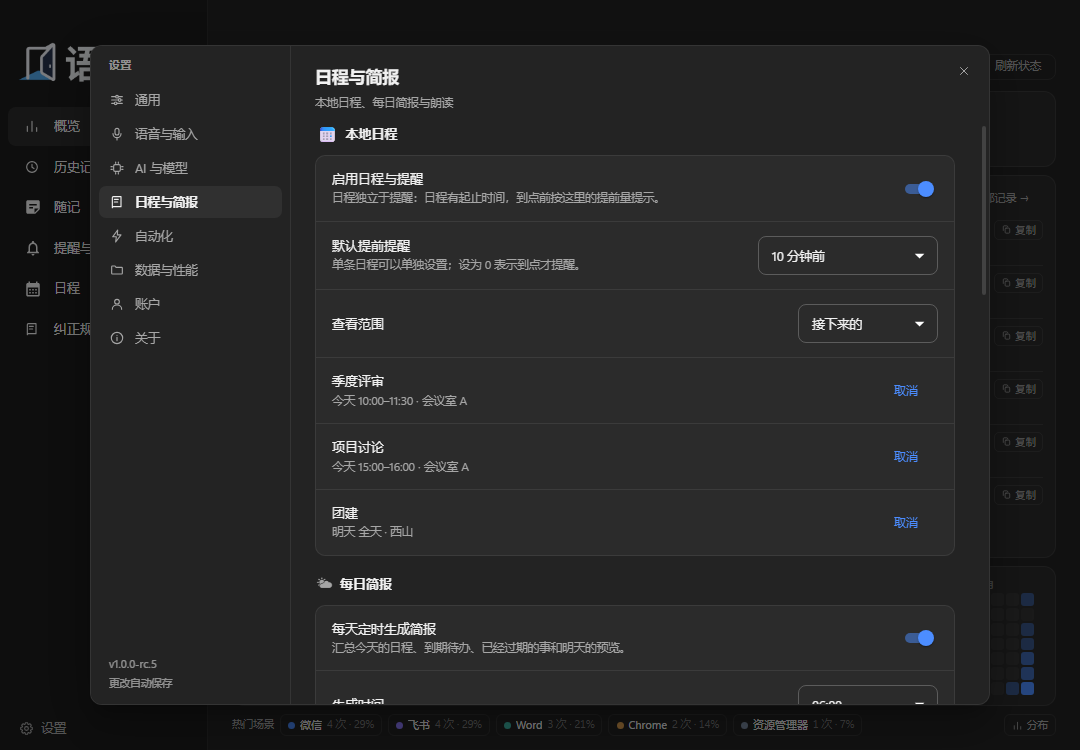
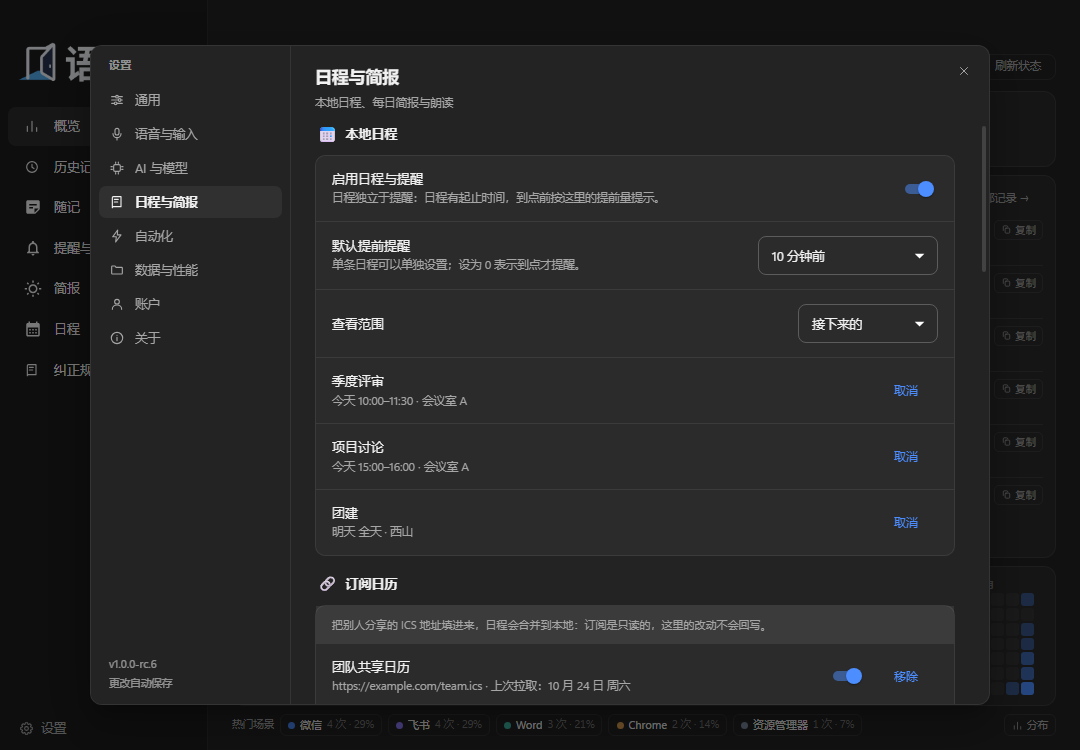
docs: describe the rc.6 round and refresh the hub screenshots
- README (both languages): calendar subscriptions and two-way sync, local body
  search and Everything, model-written briefings with a template fallback,
  conversational references, the wake-word device picker, the GitHub update
  source and the hub pill; status and changelog updated to 1.0.0-rc.6, and the
  duplicated reminders row in the English table is gone
- ASSISTANT_ROADMAP: the packaged-runtime bug and its three-part fix, the
  prerelease update channel, subscription feeds, seq-cursor sync, the degraded
  Everything path, the narration fallback rules and the device enumeration
- screenshots: capture the briefing page and the subscribe-calendar section,
  and keep the capture script's nav list in step with the new page

diff --git a/src/main/index.ts b/src/main/index.ts
@@ -2226,6 +2226,7 @@ async function bootstrap(): Promise<void> {
         log(`[capture] sidebar rects ${rects}`)
         for (const [labels, file] of [
           [['历史记录', 'History'], 'hub-history.png'],
+          [['简报', 'Briefing'], 'hub-briefing.png'],
           [['日程', 'Events'], 'hub-calendar.png'],
           [['纠正规则', 'Corrections'], 'hub-corrections.png']
         ] as const) {

diff --git a/README.en.md b/README.en.md
@@ -6,7 +6,7 @@ A Windows voice input and local AI assistant: press a hotkey, speak, and the cle
 
 [中文](README.md) · [Design philosophy (Chinese)](resources/brand/PHILOSOPHY.zh-CN.md) · [Roadmap](ASSISTANT_ROADMAP.md) · [Server deployment](server/README.md)
 
-> Current version **1.0.0-rc.5**, Windows 10/11 x64, MIT.
+> Current version **1.0.0-rc.6**, Windows 10/11 x64, MIT.
 > This is a release candidate: finished features work, unfinished ones are listed item by item in the [roadmap](ASSISTANT_ROADMAP.md).
 
 ![YU / 语](resources/brand/logo-dark.png)
@@ -16,17 +16,17 @@ A Windows voice input and local AI assistant: press a hotkey, speak, and the cle
 | Capability | In one line |
 | --- | --- |
 | **Dictation** | Press to talk, press again to stop; the result is inserted at the caret — clipboard paste first, SendInput character injection as fallback, then read back to verify |
-| **Ask** | `Space + Right Alt` to start, retrieval plus a tool-calling agent, the answer lands in a floating card you can pin, follow up on, or save as a note |
+| **Ask** | `Space + Right Alt` to start, retrieval plus a tool-calling agent, the answer lands in a floating card you can pin, follow up on, or save as a note; it can also read local file bodies (plain text, docx, xlsx, pptx) and the Everything index |
 | **Translation** | A dedicated translation mode and a selection-translation hotkey; 1–3 target languages, source language left to the ASR |
 | **Notes** | Voice or typed notes with categories and tags, playback, and audio import with re-transcription; polished text and raw transcript are kept separately |
-| **Reminders / to-dos** | Natural-language times (Chrono plus a program-side validator), recurrence, snooze, a strong-alert overlay window, missed-reminder recovery |
-| **Reminders / to-dos** | Natural-language Chinese times (Chrono plus programmatic checks), repeats, snooze, a strong-alert overlay, missed-item recovery; each to-do can carry a priority and a deadline |
-| **Events** | Its own page: month grid, day list, create and edit (start, end, location, advance alert), ICS import and export — the page and the assistant write the same data |
-| **Briefing / read-aloud** | A daily paragraph folding today's events, due to-dos, overdue items and tomorrow's preview, readable aloud; quiet hours hold delivery back, and the last two weeks of briefings stay on this machine |
+| **Reminders / to-dos** | Natural-language times (Chrono plus programmatic checks), repeats, snooze, a strong-alert overlay, missed-item recovery; each to-do can carry a priority and a deadline |
+| **Events** | Its own page: month grid, day list, create and edit (start, end, location, advance alert), ICS import and export — the page and the assistant write the same data; subscribe to external ICS calendars (including Google / Outlook secret addresses) and sync both ways once you sign in to your own server |
+| **Briefing / read-aloud** | Its own page plus a daily schedule: today's events, due to-dos, overdue items and tomorrow's preview, optionally written as one paragraph by a model (falling back to the template), readable aloud; quiet hours hold delivery back, and the last two weeks stay on this machine |
 | **Automation** | Save a sequence of steps you repeat as a named workflow and replay it with one sentence, with no model in the loop; each step runs with the saved arguments and reports its result |
 | **Screen capture** | Region or window snapping, eight-handle resize, rectangle / ellipse / arrow / pen / text / mosaic tools, Windows OCR and smart translation |
-| **Wake word** | Optional offline wake word using Windows on-device speech; nothing is uploaded or stored before it fires |
-| **Sync** | Optional self-hosted server for history, notes, note audio and per-device personal stats; dictation audio stays on the machine that recorded it |
+| **Wake word** | Optional offline wake word using Windows on-device speech, with a selectable input device; nothing is uploaded or stored before it fires |
+| **Updates** | Checks this project's GitHub Releases by default; when a newer build exists the hub shows a pill at the bottom left, and one click downloads and restarts into it |
+| **Sync** | Optional self-hosted server for history, notes, note audio, events, reminders and per-device personal stats; dictation audio stays on the machine that recorded it |
 
 ## Screens
 
@@ -36,13 +36,17 @@ A Windows voice input and local AI assistant: press a hotkey, speak, and the cle
 | --- | --- |
 | ![Bar](resources/screenshots/bar-recording.png) | ![Answer card](resources/screenshots/card-answer.png) |
 
-| History | Events |
+| History | Briefing |
 | --- | --- |
-| ![History](resources/screenshots/hub-history.png) | ![Events](resources/screenshots/hub-calendar.png) |
+| ![History](resources/screenshots/hub-history.png) | ![Briefing](resources/screenshots/hub-briefing.png) |
 
-| Settings (general) | Settings (automation) |
+| Events | Settings (general) |
 | --- | --- |
-| ![Settings](resources/screenshots/prefs-general.png) | ![Automation](resources/screenshots/prefs-automation.png) |
+| ![Events](resources/screenshots/hub-calendar.png) | ![Settings](resources/screenshots/prefs-general.png) |
+
+| Settings (schedule & briefing) | Settings (automation) |
+| --- | --- |
+| ![Schedule & briefing](resources/screenshots/prefs-life.png) | ![Automation](resources/screenshots/prefs-automation.png) |
 
 ![AI & models](resources/screenshots/prefs-models.png)
 
@@ -100,6 +104,7 @@ Three things worth knowing:
 - **Press `Esc` while recording** to throw the take away: it is neither inserted nor written to history.
 - Every shortcut can be re-recorded or cleared, and the tray menu can suspend all of them temporarily. Recording a shortcut distinguishes left and right Shift / Ctrl / Alt.
 - **Say it, and it is noted**: in Ask, “schedule a project review tomorrow 3 to 4 pm” creates an event, “what is on today” lists events, “read today’s briefing” speaks it, and “mark that to-do high priority, due Friday” updates it. These are all allowlisted tools — answers come from real data, and an empty result stays empty.
+- **Follow-ups do not need the context repeated**: "make the second one eleven", "mark the last one high priority" — the assistant resolves the target against the previous turn's real results, and asks first when it cannot tell which item you mean instead of guessing.
 - **Say it once, replay it with one sentence**: tell it “from now on, when I say morning check, look at today's calendar, build the briefing and read it out” and it saves those steps as a workflow. Saying “run morning check” then runs each step with the saved arguments, with no model in the loop, and lists what every step returned. Workflows can be archived or restored in settings under Automation.
 
 ## Configuration
@@ -110,6 +115,10 @@ Three things worth knowing:
 - **Audio**: fidelity first by default (48 kHz capture, resampled in the browser to 16 kHz mono PCM16); switch to "call noise reduction" in noisy rooms. The speaker test reuses the real capture path for up to 10 seconds and never calls a recognition service.
 - **Insertion and newlines**: insertion method (auto / SendInput / clipboard), multi-line handling (space / Shift+Enter / real newline), and whether to restore the clipboard after pasting.
 - **Prompts**: five card types (AI, polish, translation, document, email) with editable built-in cards and per-card temperature. "Auto activate" picks a card from the foreground app, and the Window classification page lets you add manual rules and preview which rule wins.
+
+- **Schedule & briefing**: the Schedule & briefing page holds the default advance alert, calendar subscriptions (https / webcal only — private and loopback addresses are refused), the briefing time, quiet hours, whether a model should write the paragraph, and the system voice used for read-aloud.
+- **Wake word**: pick the input device explicitly. If it disappears the app falls back to the system default and logs a line in diagnostics instead of failing silently.
+- **Updates**: checked against GitHub Releases by default; point `update-feed.txt` or an environment variable at your own feed if you prefer, or turn update checks off entirely.
 
 All settings save automatically; if a save fails, the pending change is kept with a retry entry point.
 
@@ -122,7 +131,7 @@ cd server
 pnpm start                # or use Docker, see server/README.md
 ```
 
-The server only handles accounts and sync (history, notes, note audio, personal stats). ASR, text models and local models are still configured per client. The client reads server capabilities: public registration off hides the sign-up entry, no SMTP hides password recovery. Prompts are written by this project (`src/shared/prompts.ts`, `src/shared/promptLibrary.ts`). Notes are stored as plaintext on the server and administrators can read them; there is no end-to-end encryption today.
+The server only handles accounts and sync (history, notes, note audio, events, reminders, personal stats). ASR, text models and local models are still configured per client. The client reads server capabilities: public registration off hides the sign-up entry, no SMTP hides password recovery. Prompts are written by this project (`src/shared/prompts.ts`, `src/shared/promptLibrary.ts`). Notes are stored as plaintext on the server and administrators can read them; there is no end-to-end encryption today.
 
 ## Data and privacy
 
@@ -130,6 +139,8 @@ The server only handles accounts and sync (history, notes, note audio, personal 
 - Keys are encrypted with the system keystore (DPAPI / safeStorage) and only ciphertext is written to disk. Where the platform provides no keystore, keys are stored as-is and the UI says so.
 - No always-on recording, no background clipboard watching, no background screenshots, no window polling. Selection reads and screenshots happen only on an explicit trigger, the original window is re-verified before and after, and password managers are refused.
 - Every local tool of the assistant goes through an allowlist plus argument validation: irreversible deletion, arbitrary commands, software installation and system changes are refused outright. Opening a web page requires the URL to come from real search results — the model may not guess domains.
+- Calendar subscription addresses stay in the local `settings.json`; a failed fetch writes a log line and nothing else.
+- Local body search runs only inside the folder you name, skipping `node_modules`, `.git` and system directories, and caches results in memory by path + mtime + size — nothing is written to disk.
 - Exported diagnostics redact credentials, URLs, e-mail addresses, private-network addresses and local paths.
 
 ## Architecture
@@ -163,6 +174,10 @@ Modules worth calling out:
 - `src/main/foreground.ts`, `selection-target.ts` — the original-window snapshot: captured when recording starts, re-verified by pid + title + class before reading or replacing a selection, and verified once more afterwards.
 - `src/main/providers/` — one OpenAI-shaped transport plus per-vendor field rewriting (OpenAI reasoning models, Gemini and DeepSeek all differ inside `adaptChatBody`), and adapters for 13 search backends.
 - `src/renderer/src/bar/capture.ts` — the microphone stays warm (`setActive` only controls reporting), avoiding the 200–800 ms cold-start loss.
+- `src/main/calendar-sync.ts`, `src/main/reminders-sync.ts` — the sync side of events and reminders: ICS subscriptions accept only https / webcal and reuse the private-address block from search, sync uses the server's increasing `seq` as a cursor, deletions travel as tombstones, and one failing source never blocks the others.
+- `src/main/file-index.ts`, `src/main/everything.ts` — local search: bodies go through a hand-rolled `node:zlib` zip reader for docx / xlsx / pptx (PDFs are explicitly unsupported), Everything is tried over HTTP first then `es.exe`, and when neither answers the tool says so and the model falls back to the built-in search.
+- `src/main/briefing.ts` + `src/shared/briefing.ts` — briefing scheduling with two sources: the template always works, and a failed model narration falls back to it with `source` recording which one you got; quiet hours hold delivery instead of queueing it, and a window crossing midnight never fires twice.
+- `src/renderer/src/settings/UpdatePill.tsx` — the pill only renders the phase the main process pushes (`available` / `downloading` / `downloaded`); a click downloads or restarts depending on that phase.
 
 ## Development
 
@@ -204,9 +219,9 @@ This project is an independent implementation. It contains no third-party client
 
 ## Project status
 
-Release candidate (`1.0.0-rc.5`). **Done**: dictation and translation, Ask plus the tool agent, notes, reminders and to-dos with priorities and deadlines, a local events page with ICS, the daily briefing and read-aloud, quiet hours, simple sequential workflows, screen capture with OCR, offline wake word, accounts and sync, self-hosted server.
+Release candidate (`1.0.0-rc.6`). **Done**: dictation and translation, Ask plus the tool agent, notes, reminders and to-dos with priorities and deadlines (synced), a local events page with ICS plus external ICS subscriptions and two-way sync, a briefing page and read-aloud with both template and model sources, quiet hours and two weeks of history, simple sequential workflows, local file body search and Everything integration, conversational references, a selectable wake-word device, screen capture with OCR, accounts and sync, self-hosted server, and update checks against GitHub Releases with a hub pill.
 
-**Not implemented** (don't read these as available): external calendar authorisation and two-way sync (Google / Outlook), cloud reminders, document text search, Everything integration, model-written briefings (today's is assembled from templates), conversational references (“make the second one eleven”), wake-word device selection. The installer is unsigned and the update feed is a placeholder — run your own feed or turn update checks off.
+**Not implemented** (don't read these as available): direct Google / Outlook OAuth (subscriptions are read-only ICS today), per-directory or per-app search exclusions, PDF body search, indexers other than Everything, branching or conditional workflows, and non-desktop briefing delivery (mail or phone push). The installer is still unsigned, and the update feed points at this project's GitHub Releases — it only works if releases are published to the matching `rc.yml` (prerelease) and `latest.yml` (stable) channels.
 
 Verification boundaries: `pnpm test` and `pnpm typecheck` cover unit and integration paths, and end-to-end runs use the fake backend. The [roadmap](ASSISTANT_ROADMAP.md) records the 81-item field comparison from 0.35.0 and what remained unresolved. A real microphone, physical hotkeys, overwrite installs, how Windows toasts actually look, and the real quotas of vendor accounts still have to be verified by you; the [API audit](PROVIDER_API_AUDIT.md) marks which endpoints were never confirmed with a real account.
 
@@ -226,6 +241,7 @@ Verification boundaries: `pnpm test` and `pnpm typecheck` cover unit and integra
 <details>
 <summary>Highlights of earlier versions (expand)</summary>
 
+- **1.0.0-rc.6**: fixes the packaged build reporting no local recognition runtime (the native runtime is an optional dependency that packaging dropped; it is now a real dependency with all three native folders unpacked); update checks move to this project's GitHub Releases with the prerelease channel pinned from the version tag and a pill in the hub when a newer build exists; events and reminders sync both ways with your own server (increasing `seq` as the cursor, tombstones for deletions) and external ICS calendars can be subscribed; Ask reads local docx / xlsx / pptx bodies and the Everything index, degrading honestly when Everything is missing; the briefing can be written by a model with a template fallback, gains its own page and keeps fourteen days; conversational references and a selectable wake-word device land too.
 - **1.0.0-rc.5**: the long-term memory system is gone (spoken preferences are no longer kept forever; notes carry them instead); events get their own page (month grid, day list, form, ICS import/export), to-dos gain a priority and a deadline, the briefing honours quiet hours and keeps two weeks of text on this machine, and a new dictation stops a read-aloud in progress; workflows let you save a sequence of tool steps under a name and replay it with one sentence.
 - **1.0.0-rc.4**: a local calendar, the daily briefing and read-aloud become allowlisted tools, and Ask no longer claims those abilities are missing; settings gain a Memory & schedule section; the calendar and briefing timers re-check after sleep and a briefing missed today is still delivered today.
 - **1.0.0-rc.3**: release-audit fixes, Electron 42.11.18 and Vitest 4.1.12, known dependency vulnerabilities patched; brand assets and icons unified, settings folded into six groups, diagnostics exports redacted, and the legacy application identifier and user directory kept so upgrades lose nothing.

diff --git a/ASSISTANT_ROADMAP.md b/ASSISTANT_ROADMAP.md
@@ -69,17 +69,32 @@
 - **验证**：2085 项通过、5 项可选跳过（124 文件）；两个 tsconfig 0 报错；`electron-vite build` 通过。日程页与工作流页在演示档案上实拍验证，语音入口与定时行为仍以单元测试为主，未做真人长时间驻留验收。
 - **仍未实现**：外部日历授权与同步、云同步提醒、模型摘要式简报、简报多渠道、工作流的权限范围界面、断网重连的系统化验收。
 
+## 打包运行时、订阅日历、正文检索、模型简报与更新源（2026-10-25，1.0.0-rc.6）
+
+上一节列出的六项缺口里，除「工作流权限范围界面」与「断网重连系统化验收」外均已补齐；同时修掉一个只在安装版出现的本地识别故障。
+
+- **本地识别在安装版不可用（真 bug）**：`sherpa-onnx-win-x64` 只是 `sherpa-onnx-node` 的 optional 依赖，electron-builder 的收集器没把它打进包，`app.asar` 里一条记录都没有，于是 `runtimeAvailable()` 探测失败、设置页报「这个版本没有带本地识别运行时」。修法三条：`package.json` 显式声明该依赖、`electron-builder.yml` 对 `sherpa-onnx-node` / `sherpa-onnx-win-x64` / `koffi` 三目录 `asarUnpack`、重新打包后验证 `require()` 能加载 addon。原生 addon 靠**同级目录** `../sherpa-onnx-win-x64` 找运行时，所以两者必须一起 unpack 且保持兄弟关系。
+- **更新源与主页提示**：默认 feed 改为 `https://github.com/sqslm/YU/releases/latest/download`（`TYPELESS_NO_UPDATE` / `TYPELESS_UPDATE_URL` / `update-feed.txt` 仍可覆盖）。预发布版必须把 `autoUpdater.channel` 钉到版本 tag（`rc`），否则 electron-updater 去要 `latest.yml` 而预发布发的是 `rc.yml`，每个 rc 安装都静默收不到更新——这是实机 404 才暴露出来的。主进程维护 `UpdateState` 相位机并推给渲染层，主页左下角的徽标只在 `available` / `downloading` / `downloaded` 出现，点击按相位下载或重启安装。
+- **外部日历订阅与双向同步**：`calendar.externalCalendars` 支持 https / webcal 订阅（`webcal` 换 https，私网与回环地址复用检索那套拦截，15 秒超时），按 `uid` 合并、保留本地取消，失败只记日志；服务端新增 `calendar_events` / `reminders` 两张表与 `/api/v1/{calendar,reminders}`、`/changes?since=`、`POST` upsert，递增 `seq` 作游标、删除走 tombstone，`duplicate` 不推进游标；客户端在 `SyncEngine` 尾部追加两个源，单源失败不互相阻塞。为让远端行与冲突副本能「原样写入」，两个 store 各加一个 `put()`——`save()` 会铸新 id 又会拒绝已过去的 `dueAt`，这正是机器关着时到达的提醒最需要的路径。
+- **正文检索与 Everything 接入**：`search_file_contents` 读本地纯文本与 docx / xlsx / pptx 正文（用 `node:zlib` 手解 zip 取 XML 剥标签，**PDF 明确不支持**），有单文件 8 MB、总时长 4 秒、800 文件、结果 10 条的上限，超时返回已找到的部分并标 `truncated`；`search_files_everything` 三级降级：Everything HTTP 接口（只允许回环、1.5 秒）→ `es.exe`（2.5 秒）→ 如实回答不可用并让模型回落到内置搜索，而不是道歉。
+- **模型撰写的简报**：`briefing.narrative` 默认开，`narrateBriefing()` 只许用给定数据、空数据不调模型；异常、超时、空输出、markdown、中文越出 60–220 字、英文越出 30–110 词任一命中就回落模板并把 `source` 记成 `template`。调度器的 `compose` 因此允许返回 Promise：今天已被认领时 30 秒轮询不会重复投递，`stop()` 之后落地的叙述直接丢弃，失败不写已发日期所以 30 秒后会重试。
+- **会话指代**：`resolveReference()` 是纯函数，支持「第二个 / 第 3 条 / 最后一条 / 刚才那条 / 改成十一点」，显式排除「第一次 / 第一步 / 第一天」和裸英文 "second"（实测会让普通句子被误判）；指代唯一性不足时直接追问并把候选列出来，口述或引用内容永不执行。日程编辑给的是「当前 15:00 开始、时长 60 分钟，只改开始并保持时长」这类提示。
+- **唤醒词输入设备**：`resources/voice-wake.ps1` 改为 winmm 参数化设备采集（`SetInputToAudioStream`），`listDevices()` 永不 reject，选定设备消失时回落系统默认并记 `device-missing`。重写时踩到一个真坑：`SpeechRecognitionEngine` 会先 `Read(buf,0,0)`，返回 0 或短读会被当成流结束——必须让 `Length` 恒为 32000 且 `Read` 阻塞到交满 `count` 字节。
+- **简报页与导航**：主页面导航在「提醒与待办」下新增「简报」，展示今日简报、立即生成、最近 14 份可展开，以及免打扰与生成时间的只读摘要。
+- **验证**：2285 项通过、5 项可选跳过（130 文件）；`server` 侧 `node --test` 65 项通过；两个 tsconfig 0 报错；`electron-vite build` 通过；打包版实机验证了 `app.asar.unpacked` 三个原生目录、更新徽标（本地 feed 声明 rc.6 → 徽标显示「有新版本 v1.0.0-rc.6」）、简报页与「日程与简报」段渲染。
+- **仍未实现**：Google / Outlook 的 OAuth 直接授权（现在只能 ICS 订阅，只读）、按目录或应用的检索排除规则、PDF 正文、Everything 之外的索引器、工作流的分支与条件、工作流的权限范围界面、简报的多渠道投递、断网重连的系统化验收。
+
 ## 分阶段交付
 
 **0.36.0 补充**：最小化保留 Windows 任务栏窗口，关闭行为单独生效；统一语音助手任务改为语音条上方结果气泡，按需查看详情；隐藏助手窗口回收不取消后台任务。独立任务不带旧对话，当前窗口查询直接读取本次录音快照，明确追问才使用必要历史。新增可配置框选截图快捷键（默认左 Ctrl + 右 Shift + X），鼠标所在显示器、移动/调整选区、矩形/椭圆/箭头/画笔/文字/马赛克/撤销；「完成」复制图片并关闭，「另存为」使用系统自选路径，取消返回编辑。Windows 本地 OCR；智能翻译默认界面语言、无明确值时系统语言，可手动覆盖；Ask 复用既有视觉 Provider。独立临时编辑器沿用中英文明暗主题，关闭释放，不引入依赖或常驻捕获。真实 Electron/Windows OCR、剪贴板、PNG 写入与标注已验证；翻译和视觉协议以本地 HTTP 服务验证，未以此宣称真实模型翻译质量通过。当前不含滚动长截图、常驻贴图或跨屏选区；其他原路线图余项保持未实现。
 
 1. **后台与助手中心（0.32.0 已交付）**：托盘直达助手/随记/提醒/设置并显示运行状态；关闭时后台或退出，最小化保留任务栏窗口；独立可配置助手快捷键；惰性创建、隐藏 60 秒后回收窗口（随记录音时保留主窗）；文字/语音复用 Ask 和录音；与旧 Ask 隔离的临时多轮会话，可停止、清除，界面保留最近 12 轮，模型上下文最多三个完整问答，15 分钟闲置后再次访问清理；取消及错误状态。不读取剪贴板、截图或窗口正文。助手语音失败不重跑旧历史。
-2. **Windows 工具（0.33.0 已实现基础能力）**：扩展现有 `tools/registry.ts`，独立助手授权清单；App Paths/无参数开始菜单快捷方式发现与启动；已知或明确本地文件夹、真实结果文档、安全 HTTP/HTTPS URL 打开；Windows Search 元数据搜索并补查当前目录；文件名、扩展名、修改日期、最小大小、最新/最大排序。打开操作按用户指令直接执行（0.34.1）；文件元数据搜索按用户请求直接在限定范围查询。实际回执与分页候选；唯一结果可在下一步打开，多个结果必须用户选择，支持“第二个”。原生与受约束 JSON 模型路径共用注册表，顺序执行、失败停止、最多 4 轮/8 次工具/90 秒；简单打开不依赖模型。无任意命令、脚本、安装或删除工具。当前支持真实 Start Apps/UWP 启动；用户明确要求时补查最多 3 层、5000 个条目、5 秒，不跟随目录链接。不查正文、不提供可靠下载时间/最近使用记录，不支持带参数快捷方式；Everything 未接入。固定工作流保存仍属阶段 7。
+2. **Windows 工具（0.33.0 已实现基础能力；1.0.0-rc.6 补上正文检索与 Everything）**：扩展现有 `tools/registry.ts`，独立助手授权清单；App Paths/无参数开始菜单快捷方式发现与启动；已知或明确本地文件夹、真实结果文档、安全 HTTP/HTTPS URL 打开；Windows Search 元数据搜索并补查当前目录；文件名、扩展名、修改日期、最小大小、最新/最大排序。打开操作按用户指令直接执行（0.34.1）；文件元数据搜索按用户请求直接在限定范围查询。实际回执与分页候选；唯一结果可在下一步打开，多个结果必须用户选择，支持“第二个”。原生与受约束 JSON 模型路径共用注册表，顺序执行、失败停止、最多 4 轮/8 次工具/90 秒；简单打开不依赖模型。无任意命令、脚本、安装或删除工具。当前支持真实 Start Apps/UWP 启动；用户明确要求时补查最多 3 层、5000 个条目、5 秒，不跟随目录链接。1.0.0-rc.6 起支持限定目录内的正文检索（纯文本与 docx / xlsx / pptx，PDF 明确不支持）和 Everything 三级降级接入；仍不提供可靠下载时间/最近使用记录，不支持带参数快捷方式，也没有按目录/应用的检索排除规则。固定工作流保存已在 1.0.0-rc.5 交付。
 3. **主动提供上下文（0.35.0 接入原窗口选区、剪贴板、截图及 OCR；0.36.0 接入框选、标注、OCR/智能翻译/截图 Ask；排除配置等余项待实现）**：复用选区捕获；解释/翻译/润色/总结/提示词优化/提取待办/选区 Ask；按需读取剪贴板；确认后替换；当前窗和框选截图预览、取消及一次性发送；视觉 Provider 与 Windows OCR；能力不足明确说明；敏感应用/目录排除；任务开始时固定目标。
-4. **个人事务联动（0.34.0 接入已有事务工具；1.0.0-rc.4 补齐本地日程，1.0.0-rc.5 补齐待办优先级/截止日、日程页与 ICS 入口；外部日历仍缺）**：复用提醒的无时间待办、随记明确事项提取保存和来源回链；补齐待办优先级、截止日、查询/修改工具；本地日程起止、今天/本周查询、取消、提前提醒、ICS 导入导出。外部 Google/Outlook 授权与同步为独立后续能力，未接通不得标称支持。
-5. **简报（1.0.0-rc.4 交付简报与朗读，1.0.0-rc.5 补齐免打扰与历史留存；个人记忆系统已按产品决定删除；多渠道与模型摘要仍缺）**：本地稳定 ID、内容/分类/来源/时间/启用状态；仅明确记忆请求写入；管理、删除、总开关；关键词/标签按需检索；不默认收集秘密。数据库生成每日待办/提醒/日程/遗漏事项简报；时间、渠道、免打扰及遗漏策略；自然语言摘要按需调用模型。
-6. **语音体验（0.37.0 已接入默认关闭的 Windows 离线自定义词唤醒；1.0.0-rc.4 交付系统 TTS，1.0.0-rc.5 补齐「新指令打断朗读」；显式会话「第二个/改成十一点」等余项未实现）**：系统 TTS，停止/暂停、音量、默认可关闭、新指令打断；显式会话最近结果支持“第二个”“改成十一点”，过期清理；评估许可证兼容的轻量离线唤醒组件，默认关闭，唤醒前音频不上传/不调用常规 ASR。无适合组件时记录限制并保留快捷键，不以持续 ASR 伪装唤醒。
-7. **综合联动与稳定性（1.0.0-rc.5 落地简单顺序工作流与同步状态/暂停；确认范围与权限管理、断网重连系统化验收仍缺）**：复用窗口路由并固定任务目标；简单顺序工作流保存；确认范围与权限管理；性能、休眠/时区/断网/重连/退出恢复；真实场景验收与中英文文档。高影响动作未实现则拒绝，已实现也必须用户确认，外部内容不能提升权限。
+4. **个人事务联动（0.34.0 接入已有事务工具；1.0.0-rc.4 补齐本地日程，1.0.0-rc.5 补齐待办优先级/截止日、日程页与 ICS 入口，1.0.0-rc.6 补齐订阅日历与云端双向同步；OAuth 直连仍缺）**：复用提醒的无时间待办、随记明确事项提取保存和来源回链；补齐待办优先级、截止日、查询/修改工具；本地日程起止、今天/本周查询、取消、提前提醒、ICS 导入导出。1.0.0-rc.6 加入 ICS 订阅（只读）与自建服务端的日程/提醒双向同步；Google / Outlook 的 OAuth 直接授权仍属独立后续能力，未接通不得标称支持。
+5. **简报（1.0.0-rc.4 交付简报与朗读，1.0.0-rc.5 补齐免打扰与历史留存，1.0.0-rc.6 补齐模型撰写、独立简报页；个人记忆系统已按产品决定删除；多渠道投递仍缺）**：本地稳定 ID、内容/分类/来源/时间/启用状态；仅明确记忆请求写入；管理、删除、总开关；关键词/标签按需检索；不默认收集秘密。数据库生成每日待办/提醒/日程/遗漏事项简报；时间、渠道、免打扰及遗漏策略；自然语言摘要按需调用模型。
+6. **语音体验（0.37.0 已接入默认关闭的 Windows 离线自定义词唤醒；1.0.0-rc.4 交付系统 TTS，1.0.0-rc.5 补齐「新指令打断朗读」，1.0.0-rc.6 补齐会话指代与唤醒输入设备选择）**：系统 TTS，停止/暂停、音量、默认可关闭、新指令打断；显式会话最近结果支持“第二个”“改成十一点”，过期清理；评估许可证兼容的轻量离线唤醒组件，默认关闭，唤醒前音频不上传/不调用常规 ASR。无适合组件时记录限制并保留快捷键，不以持续 ASR 伪装唤醒。
+7. **综合联动与稳定性（1.0.0-rc.5 落地简单顺序工作流与同步状态/暂停；1.0.0-rc.6 把工作流重放改成逐步授权并按白名单校验落盘步骤；确认范围与权限管理界面、断网重连系统化验收仍缺）**：复用窗口路由并固定任务目标；简单顺序工作流保存；确认范围与权限管理；性能、休眠/时区/断网/重连/退出恢复；真实场景验收与中英文文档。高影响动作未实现则拒绝，已实现也必须用户确认，外部内容不能提升权限。
 
 ## 0.41.0 历史交付
 
